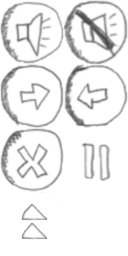
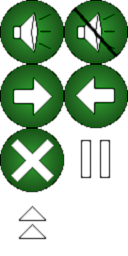
UI elements redrawn

diff --git a/MrMunch/src/com/androidgames/mrmunch/GameScreen.java b/MrMunch/src/com/androidgames/mrmunch/GameScreen.java
@@ -70,13 +70,13 @@ public class GameScreen extends Screen {
                 	if(!world.snake.already_turned)
                 		world.snake.turnRight();
                 }
-                if(event.x > 256 && event.y < 64) {
+                if(event.x > 256 && event.y > 350 && event.y < 416) {
                 	speedingUp = true;
                 	if(World.tick - World.TICK_DECREMENT > 0)
                 		World.tick /= 2;
                 }
             }
-            if(((event.type == TouchEvent.TOUCH_UP && event.x > 256 && event.y < 64) || (event.type == TouchEvent.TOUCH_DRAGGED && !(event.x > 256 && event.y < 64))) && speedingUp){
+            if(((event.type == TouchEvent.TOUCH_UP && event.x > 256 && event.y > 350 && event.y < 416) || (event.type == TouchEvent.TOUCH_DRAGGED && !(event.x > 256 && event.y > 350 && event.y < 416))) && speedingUp){
             	speedingUp = false;
         		World.tick *= 2;
             }
@@ -198,24 +198,27 @@ public class GameScreen extends Screen {
         Graphics g = game.getGraphics();
         
         g.drawPixmap(Assets.ready, 47, 100);
-        g.drawLine(0, 416, 480, 416, Color.BLACK);
+        g.drawRect(0, 416, 480, 64, Color.BLACK);
+        g.drawLine(0, 415, 480, 415, Color.GREEN);
     }
     
     private void drawRunningUI() {
         Graphics g = game.getGraphics();
 
         g.drawPixmap(Assets.buttons, 0, 0, 64, 128, 64, 64);
-        g.drawLine(0, 416, 480, 416, Color.BLACK);
+        g.drawRect(0, 416, 480, 64, Color.BLACK);
+        g.drawLine(0, 415, 480, 415, Color.GREEN);
         g.drawPixmap(Assets.buttons, 0, 416, 64, 64, 64, 64);
         g.drawPixmap(Assets.buttons, 256, 416, 0, 64, 64, 64);
-        g.drawPixmap(Assets.buttons, 256, 0, 0, 192, 64, 64);
+        g.drawPixmap(Assets.buttons, 256, 350, 0, 192, 64, 64);
     }
     
     private void drawPausedUI() {
         Graphics g = game.getGraphics();
         
         g.drawPixmap(Assets.pause, 80, 100);
-        g.drawLine(0, 416, 480, 416, Color.BLACK);
+        g.drawRect(0, 416, 480, 64, Color.BLACK);
+        g.drawLine(0, 415, 480, 415, Color.GREEN);
     }
 
     private void drawGameOverUI() {
@@ -223,7 +226,8 @@ public class GameScreen extends Screen {
         
         g.drawPixmap(Assets.gameOver, 62, 100);
         g.drawPixmap(Assets.buttons, 128, 200, 0, 128, 64, 64);
-        g.drawLine(0, 416, 480, 416, Color.BLACK);
+        g.drawRect(0, 416, 480, 64, Color.BLACK);
+        g.drawLine(0, 415, 480, 415, Color.GREEN);
     }
     
     public void drawText(Graphics g, String line, int x, int y) {

diff --git a/MrMunch/src/com/androidgames/mrmunch/MainMenuScreen.java b/MrMunch/src/com/androidgames/mrmunch/MainMenuScreen.java
@@ -2,6 +2,8 @@ package com.androidgames.mrmunch;
 
 import java.util.List;
 
+import android.graphics.Color;
+
 import com.androidgames.framework.Game;
 import com.androidgames.framework.Graphics;
 import com.androidgames.framework.Screen;
@@ -61,7 +63,7 @@ public class MainMenuScreen extends Screen {
     public void present(float deltaTime) {
         Graphics g = game.getGraphics();
         
-        g.drawPixmap(Assets.background, 0, 0);
+        g.clear(Color.BLACK);
         g.drawPixmap(Assets.logo, 32, 20);
         g.drawPixmap(Assets.mainMenu, 64, 220);
         if(Settings.soundEnabled)
